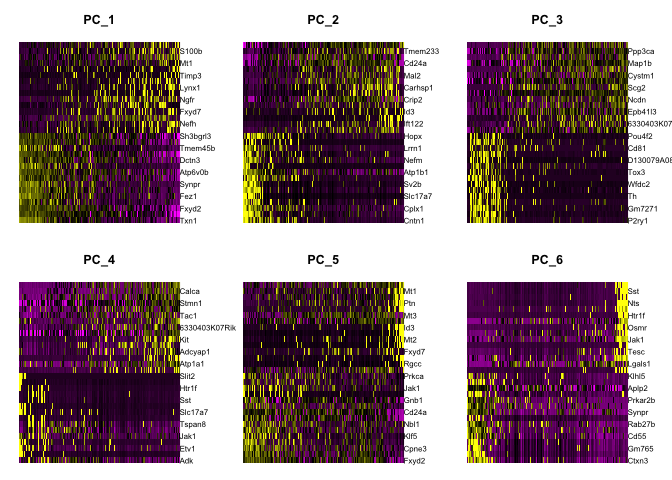
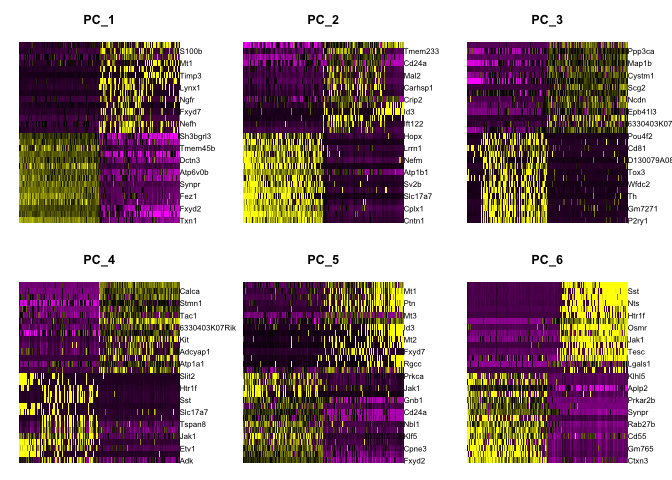
update part4

diff --git a/scrnaseq_analysis/scRNA_Workshop-PART4.md b/scrnaseq_analysis/scRNA_Workshop-PART4.md
@@ -47,16 +47,6 @@ experiment.aggregate <- ScaleData(
 ## Centering and scaling data matrix
 ```
 
-```r
-# I THINK THIS WAS THE CODE THAT WAS INTENDED TO FORCE FindAllMarkers TO USE @data INSTEAD OF @scale.data.  (It now uses @data by default)
-# norm.data <- experiment.aggregate@data
-# experiment.aggregate@data <- experiment.aggregate@scale.data
-# experiment.aggregate@data <- norm.data
-# experiment.aggregate <- ScaleData(
-#   object = experiment.aggregate,
-#   genes.use=experiment.aggregate@var.genes)
-```
-
 ## Dimensionality reduction with PCA 
 
 Next we perform PCA (principal components analysis) on the scaled data.  
@@ -137,19 +127,13 @@ Draws a heatmap focusing on a principal component. Both cells and genes are sort
 
 
 ```r
-PCHeatmap(
-    object = experiment.aggregate, 
-    dims = 1:6
-)
+DimHeatmap(object = experiment.aggregate, dims = 1:6, cells = 500, balanced = TRUE)
 ```
 
 ![](scRNA_Workshop-PART4_files/figure-html/unnamed-chunk-7-1.png)<!-- -->
 
 ```r
-PCHeatmap(
-    object = experiment.aggregate, 
-    dims = 7:12
-)
+DimHeatmap(object = experiment.aggregate, dims = 7:12, cells = 500, balanced = TRUE)
 ```
 
 ![](scRNA_Workshop-PART4_files/figure-html/unnamed-chunk-7-2.png)<!-- -->
@@ -161,8 +145,7 @@ ElbowPlot plots the standard deviations (or approximate singular values if runni
 
 
 ```r
-ElbowPlot(
-  experiment.aggregate)
+ElbowPlot(experiment.aggregate)
 ```
 
 ![](scRNA_Workshop-PART4_files/figure-html/unnamed-chunk-8-1.png)<!-- -->
@@ -191,7 +174,7 @@ JackStrawPlot(object = experiment.aggregate, dims = 1:40)
 Looking at the results of the JackStraw plot, we determine to use the first 35 PCs
 
 ```r
-use.pcs = 1:35
+use.pcs = 1:29
 ```
 
 ## Finally, lets save the filtered and normalized data
